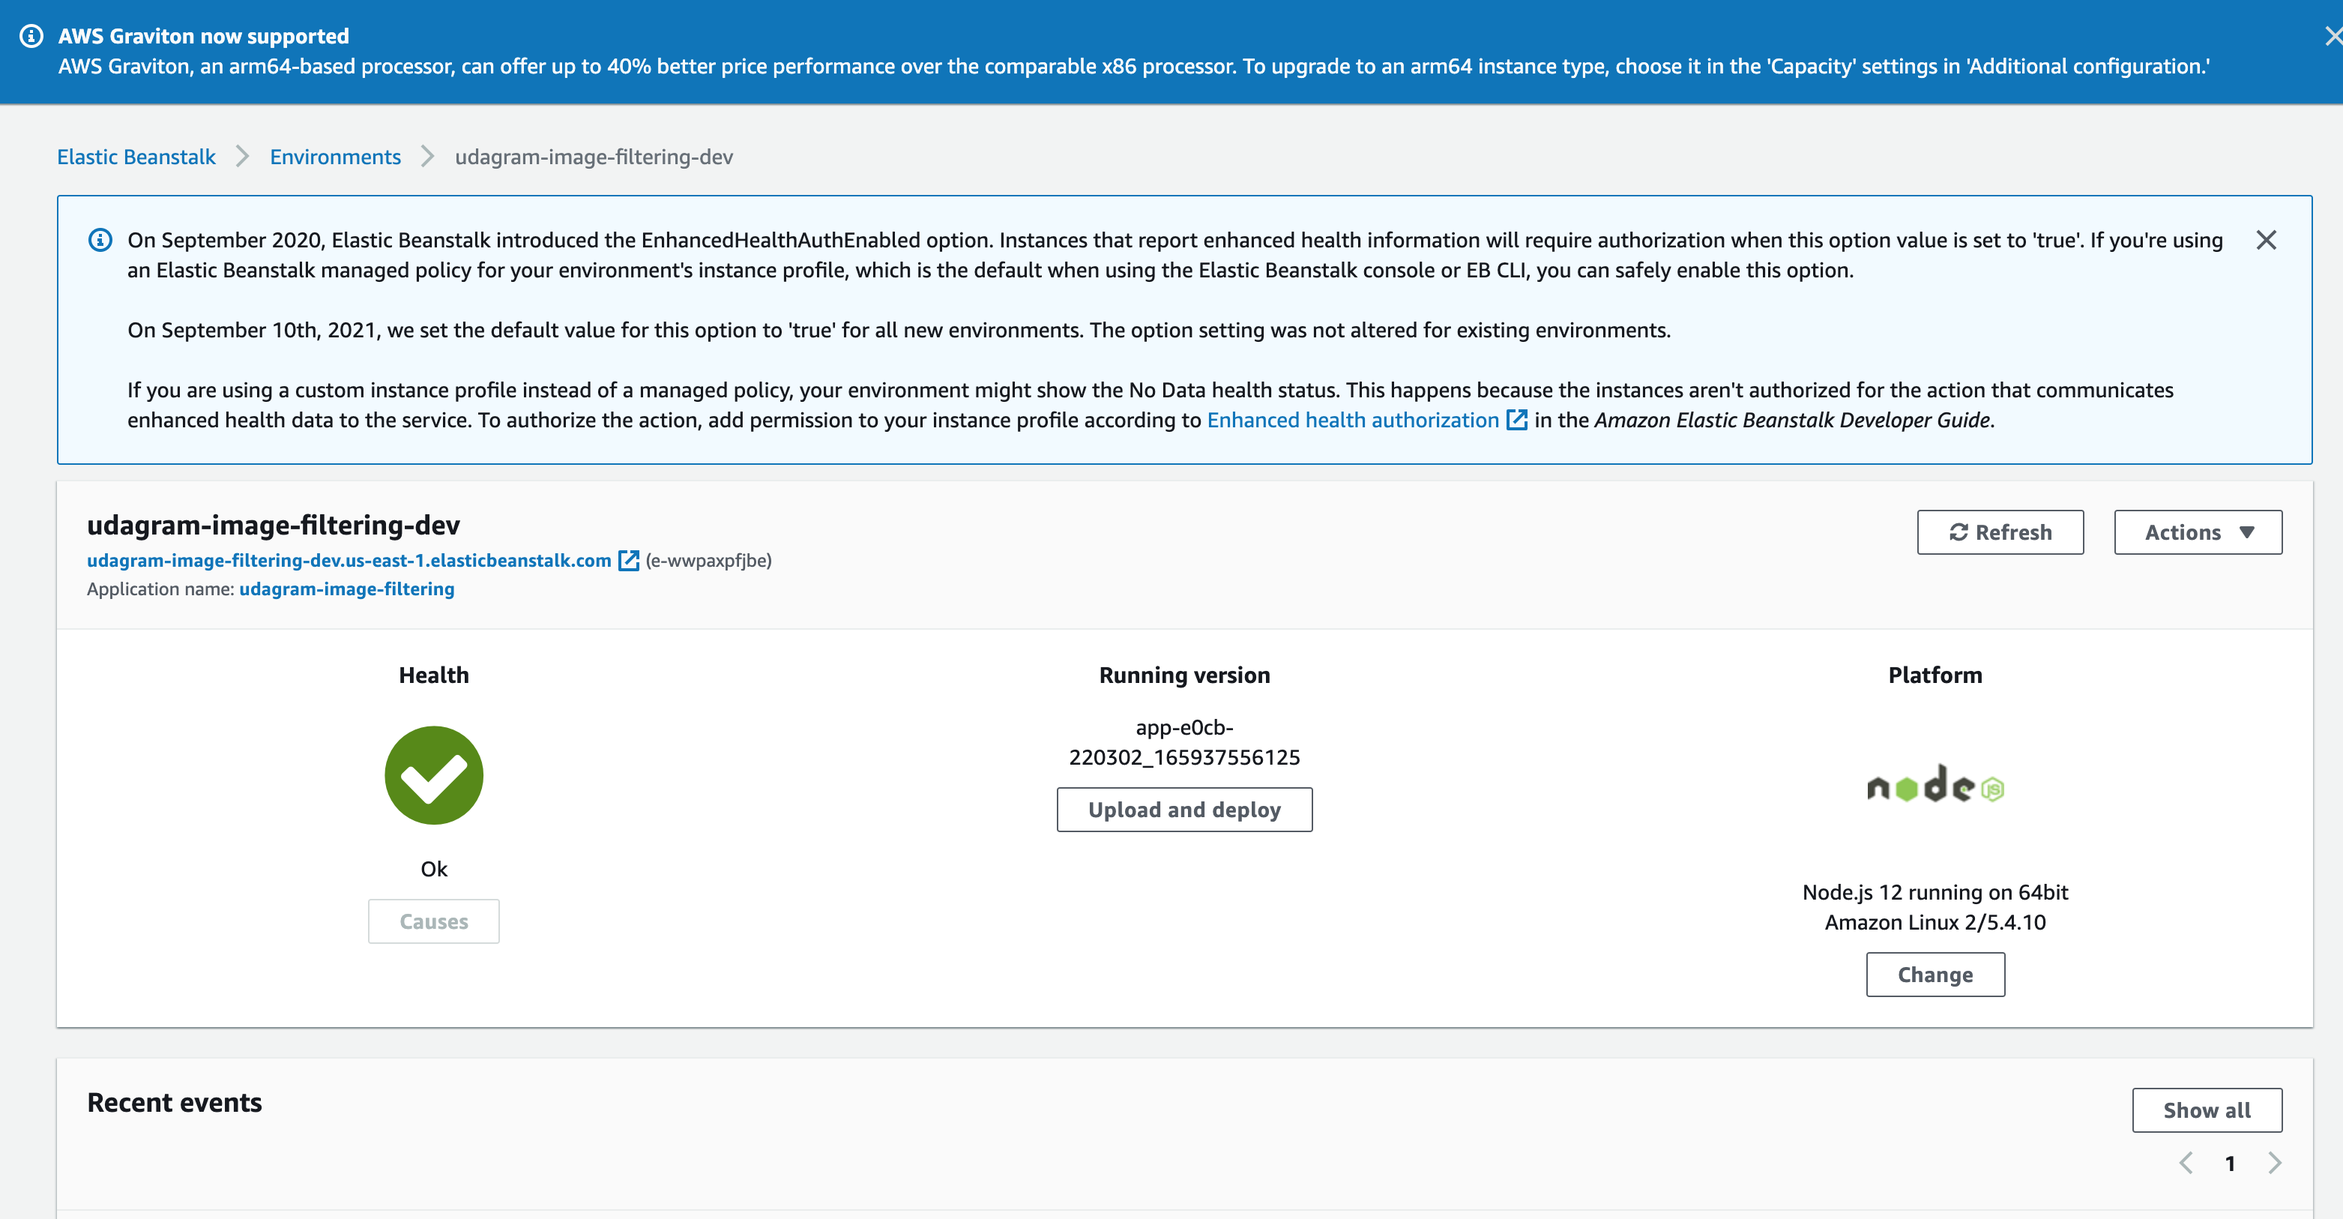
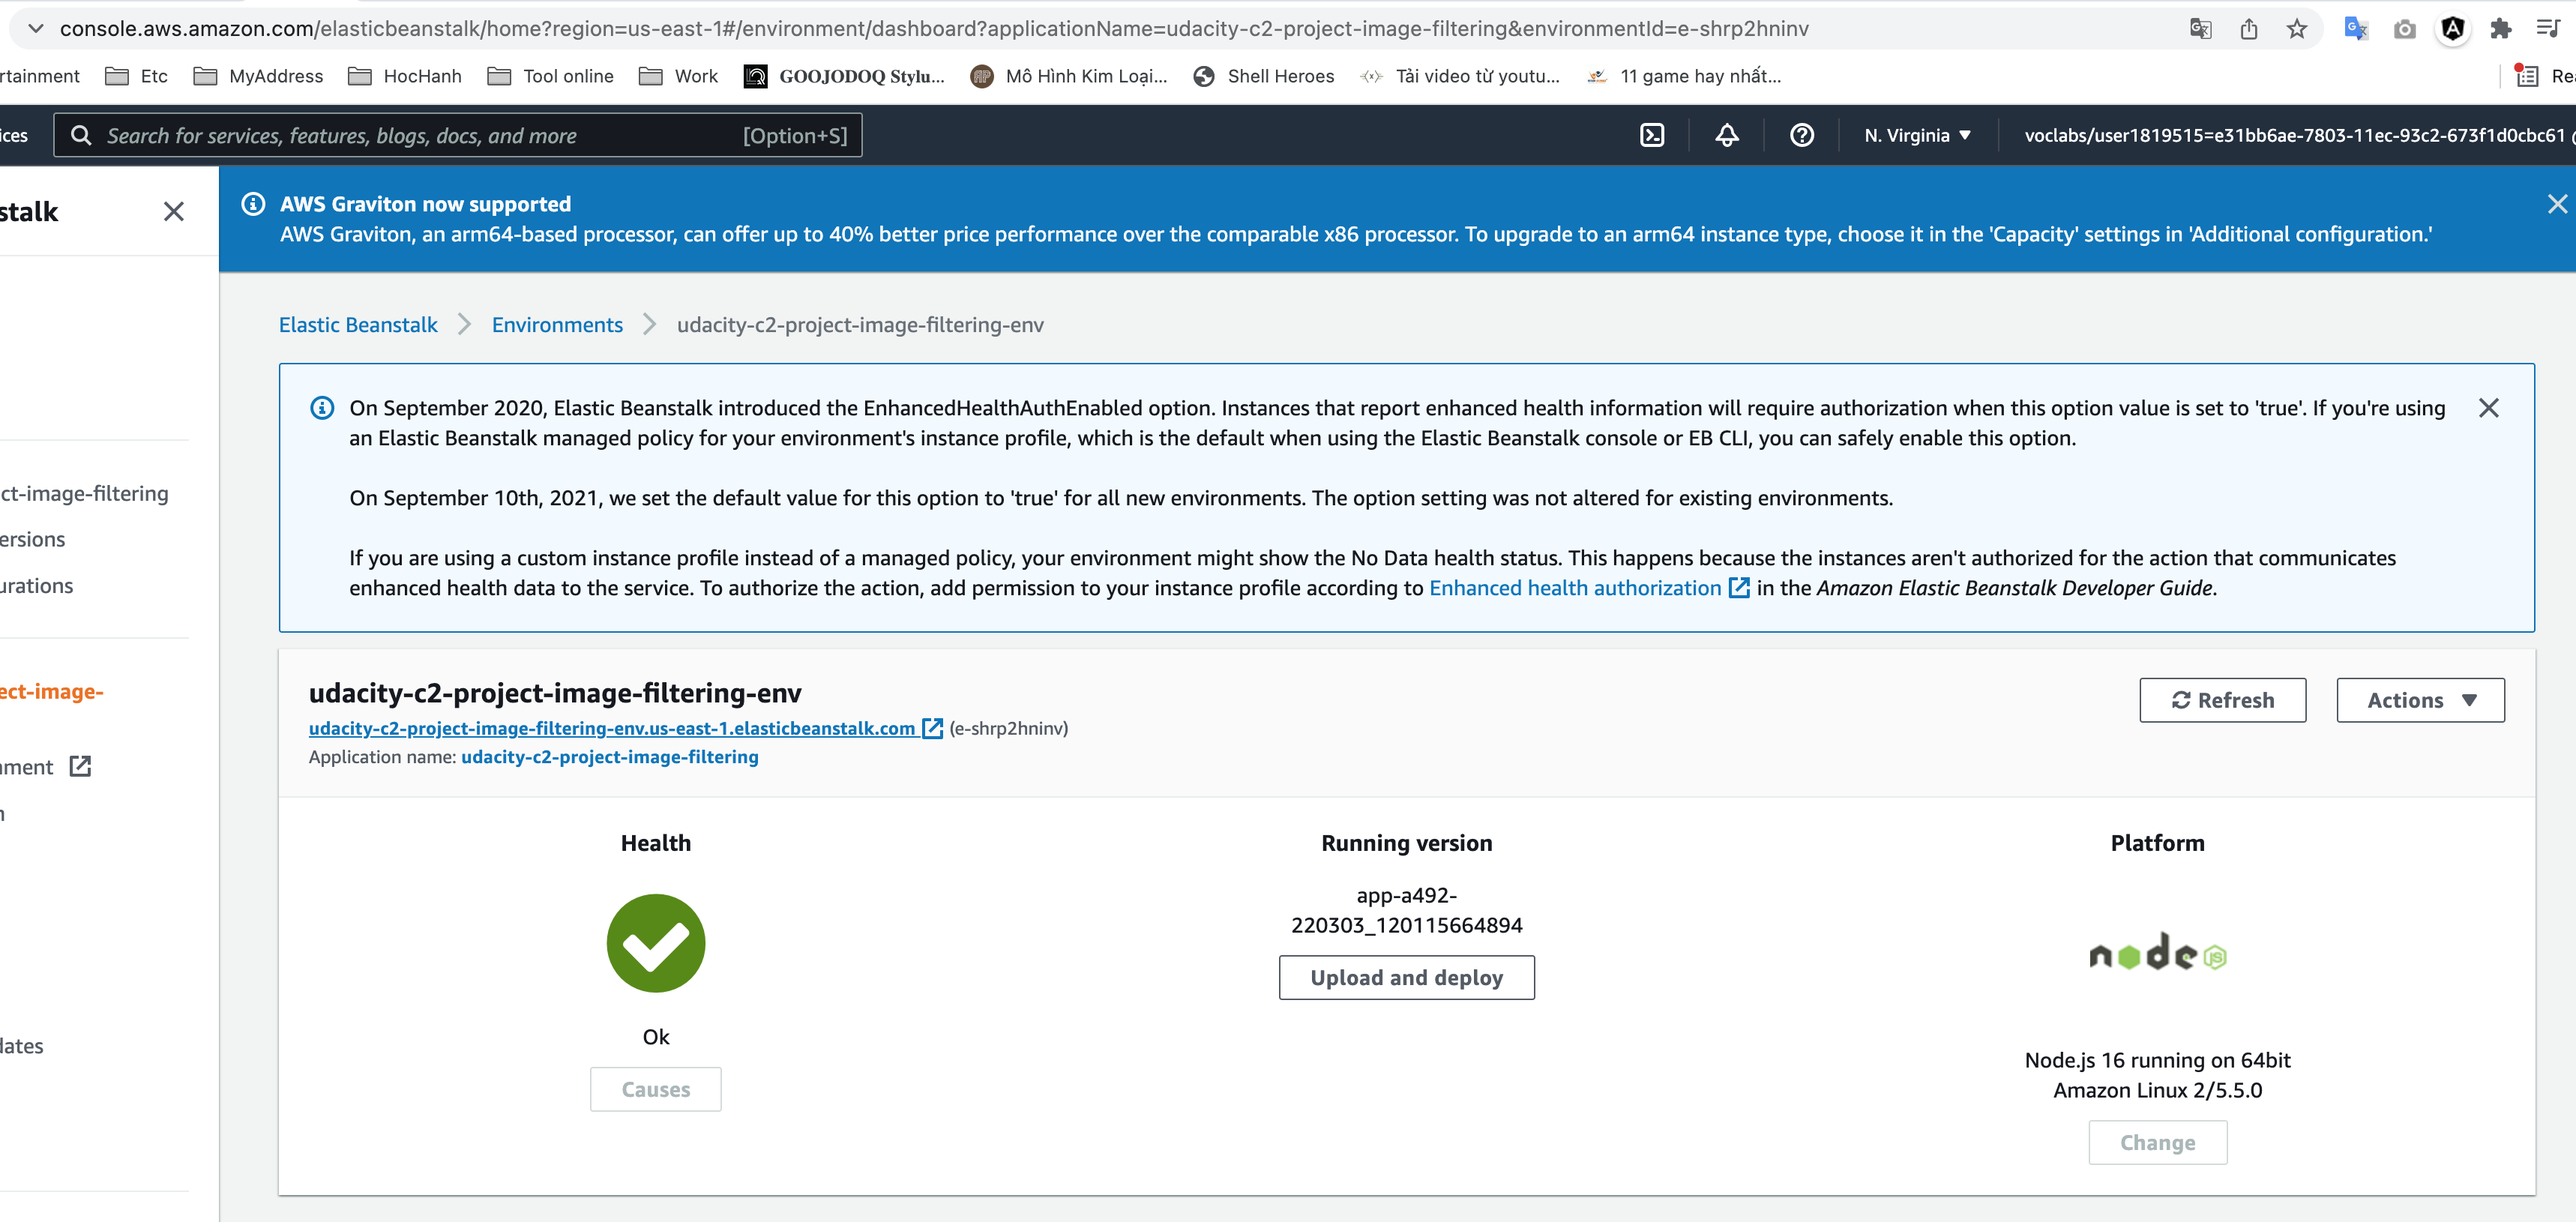
add screenshot and README info

diff --git a/README.md b/README.md
@@ -5,7 +5,7 @@ Project of Udacity course
 https://github.com/letruongan1982/udagram-image-filter.git
 
 # elastic beanstalk instance URL
-https://console.aws.amazon.com/elasticbeanstalk/home?region=us-east-1#/environment/dashboard?applicationName=udagram-image-filtering&environmentId=e-wwpaxpfjbe
+https://console.aws.amazon.com/elasticbeanstalk/home?region=us-east-1#/environment/dashboard?applicationName=udacity-c2-project-image-filtering&environmentId=e-shrp2hninv
 
 # endpoint URL for a running elastic beanstalk deployment 
-http://udagram-image-filtering-dev.us-east-1.elasticbeanstalk.com/filteredimage?image_url=https://www.21-draw.com/wp-content/uploads/2021/09/Intermediate-photoshop-Featured-Image-1.png
+http://udacity-c2-project-image-filtering-env.us-east-1.elasticbeanstalk.com/filteredimage?image_url=https://www.21-draw.com/wp-content/uploads/2021/09/Intermediate-photoshop-Featured-Image-1.png
